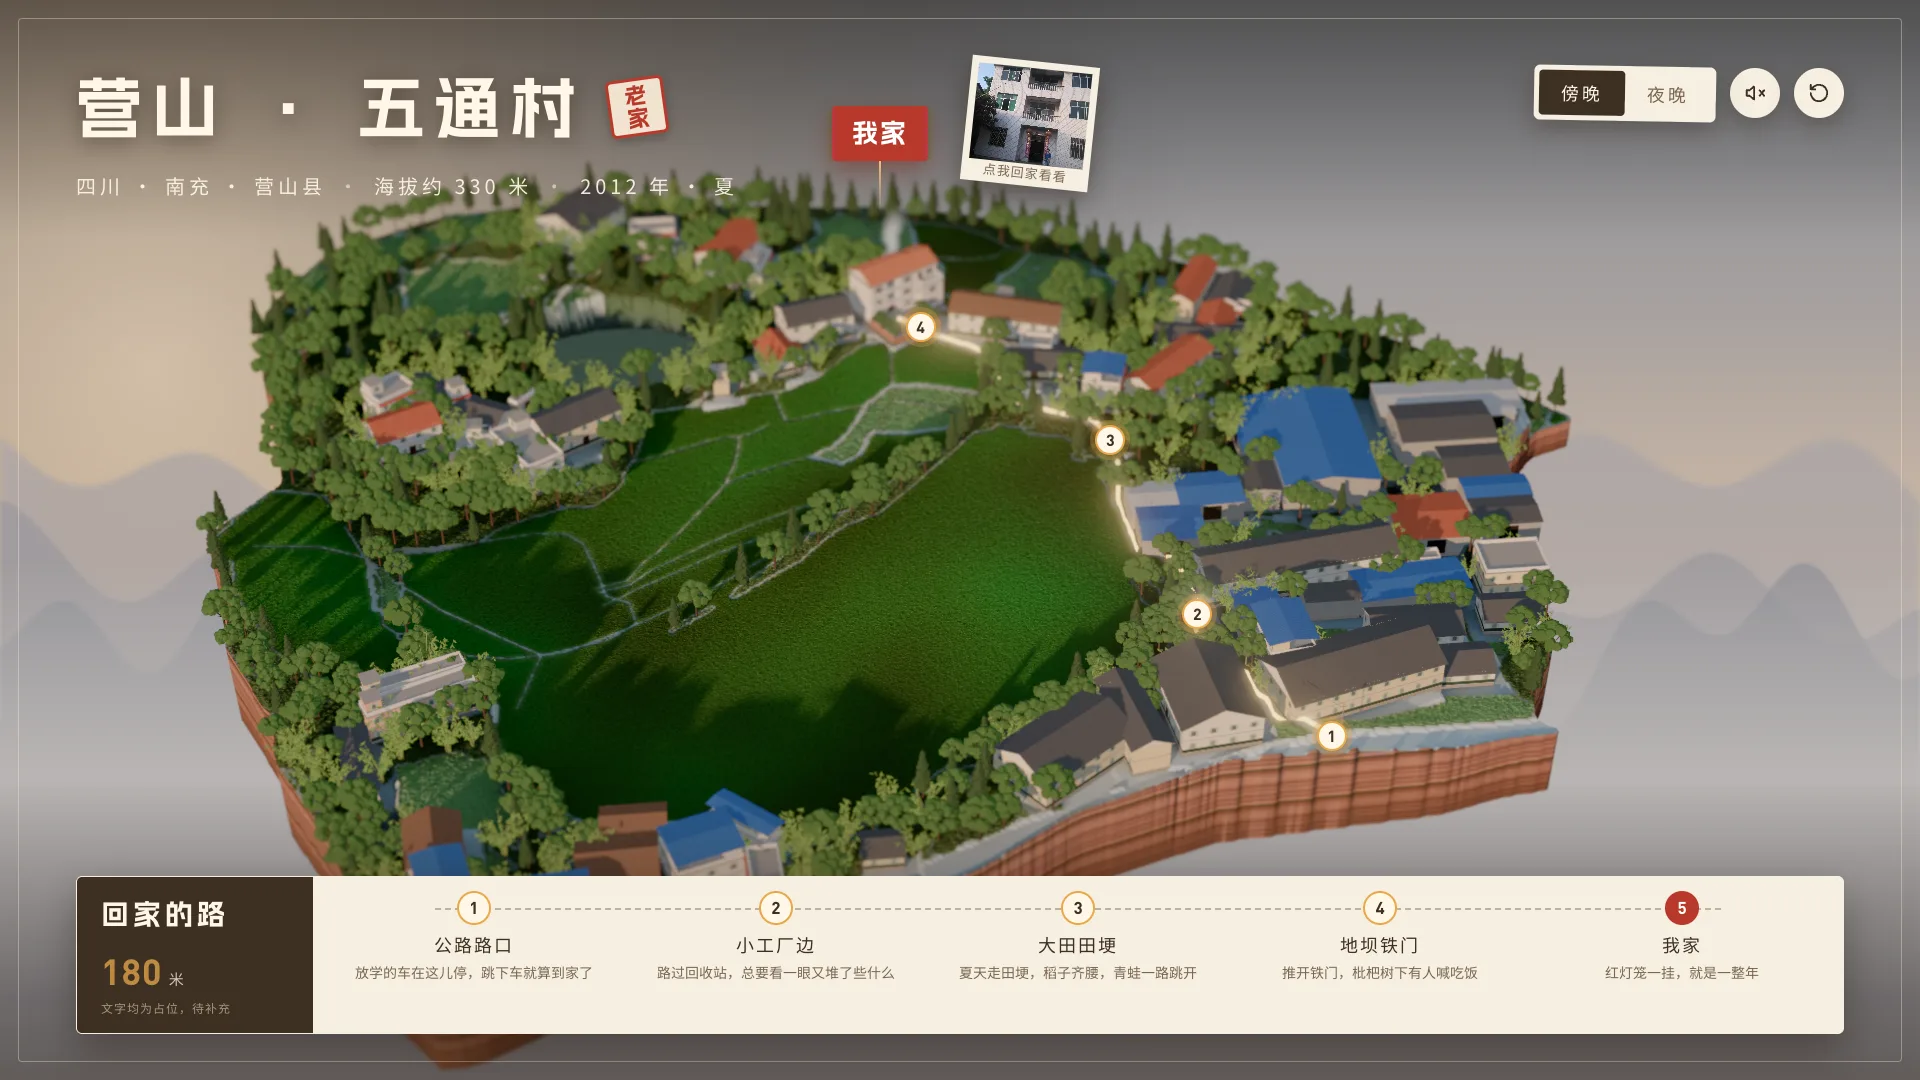
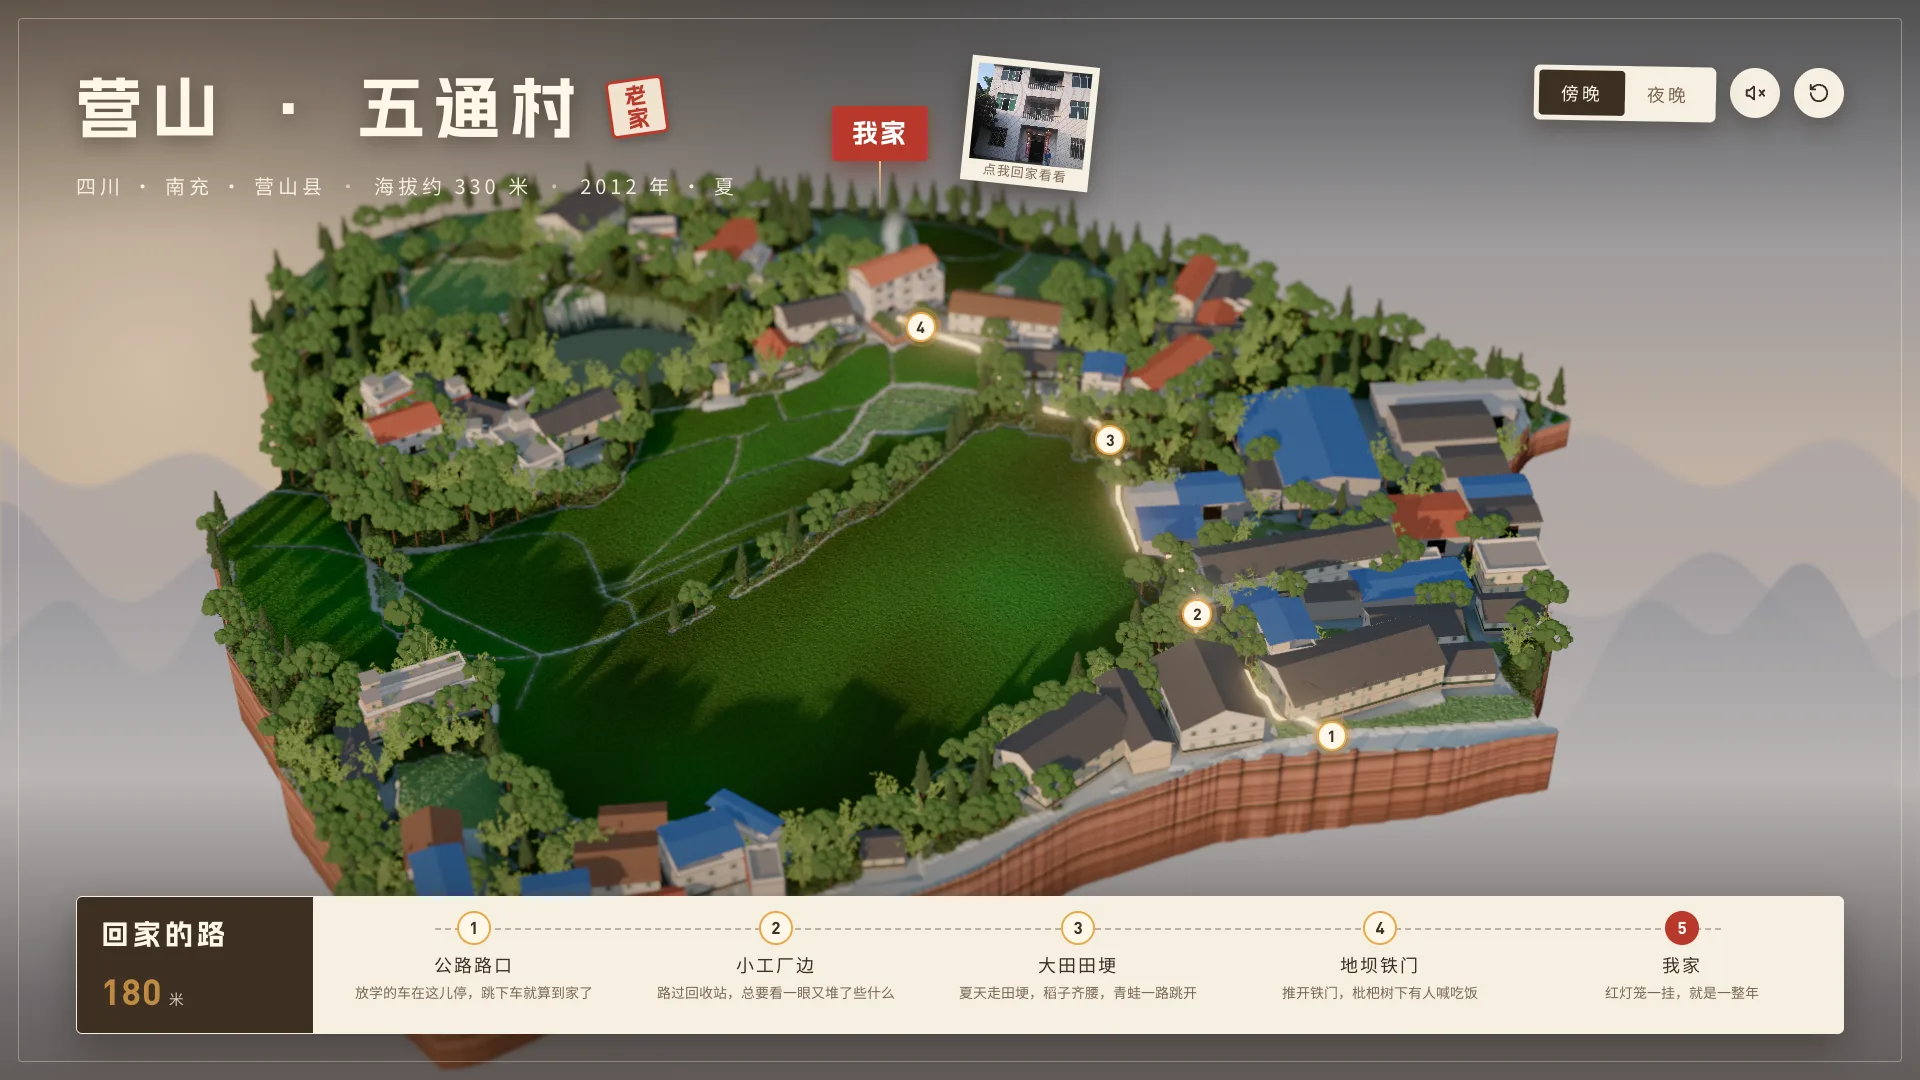
refactor: 移除老家卡片和路线带的占位文字

Changed region(s): [[0.0312, 0.7944, 0.9688, 0.9472]]

diff --git a/src/views/hometown/components/HomeDetail.vue b/src/views/hometown/components/HomeDetail.vue
@@ -7,13 +7,13 @@
       <div class="tape r"></div>
       <img :src="photo" alt="老家老照片" />
       <h3>
-        {{ HOME_CARD.title }}<small>{{ HOME_CARD.built }}</small>
+        {{ HOME_CARD.title
+        }}<small v-if="HOME_CARD.built">{{ HOME_CARD.built }}</small>
       </h3>
       <p>
         <template v-for="(l, i) in HOME_CARD.lines" :key="i"
           >{{ l }}<br
         /></template>
-        <span class="todo">（文字待补充）</span>
       </p>
       <div class="date">{{ HOME_CARD.date }}</div>
     </div>
@@ -126,10 +126,6 @@
       right: 30px;
       transform: rotate(7deg);
     }
-  }
-  .todo {
-    color: #b49a7a;
-    font-size: 12px;
   }
   .foot {
     position: absolute;

diff --git a/src/views/hometown/data/memories.js b/src/views/hometown/data/memories.js
@@ -17,10 +17,10 @@ export const ROUTE_STEPS = [
 /** 回家的路全长（米），由回家路线折线长度取整到 10 米（2026-10-13 按用户重画的红线约 184 m） */
 export const ROUTE_LENGTH = 180
 
-/** 近景的老照片卡片 */
+/** 近景的老照片卡片（built 是标题旁的建造年份，如"建于 2008 年"；留空则不显示） */
 export const HOME_CARD = {
   title: "我家",
-  built: "建于 20XX 年",
+  built: "",
   lines: ["地坝两边六棵枇杷树，门口两只红灯笼", "推开铁门，就到家了"],
   date: "'12 夏"
 }

diff --git a/src/views/hometown/components/RouteRibbon.vue b/src/views/hometown/components/RouteRibbon.vue
@@ -7,7 +7,6 @@
         <b>{{ ROUTE_LENGTH }}</b
         >米
       </p>
-      <p class="todo">文字均为占位，待补充</p>
     </div>
     <div class="steps">
       <div
@@ -65,11 +64,6 @@
       font-size: 36px;
       color: var(--warm);
       margin-right: 6px;
-    }
-    .todo {
-      margin-top: 2px;
-      color: #c9b896;
-      font-size: 12px;
     }
   }
   .steps {
